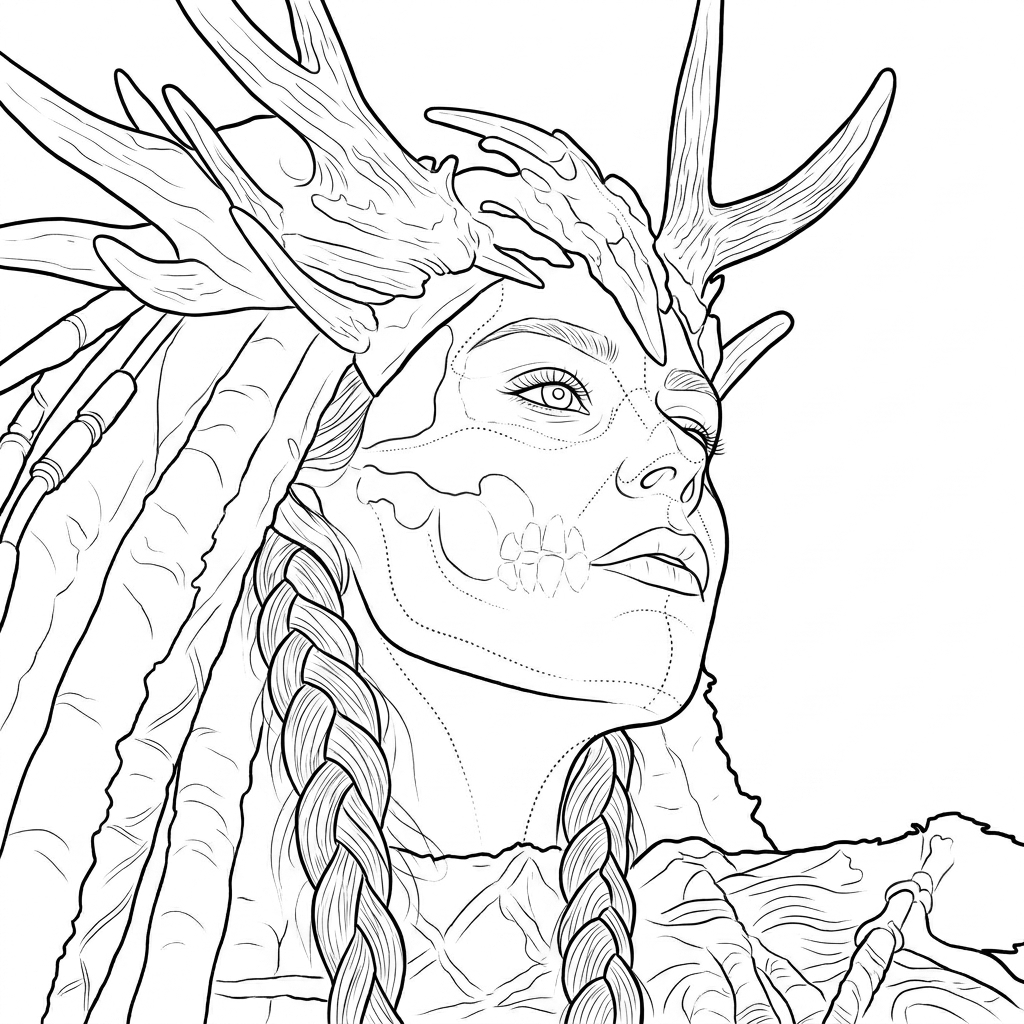
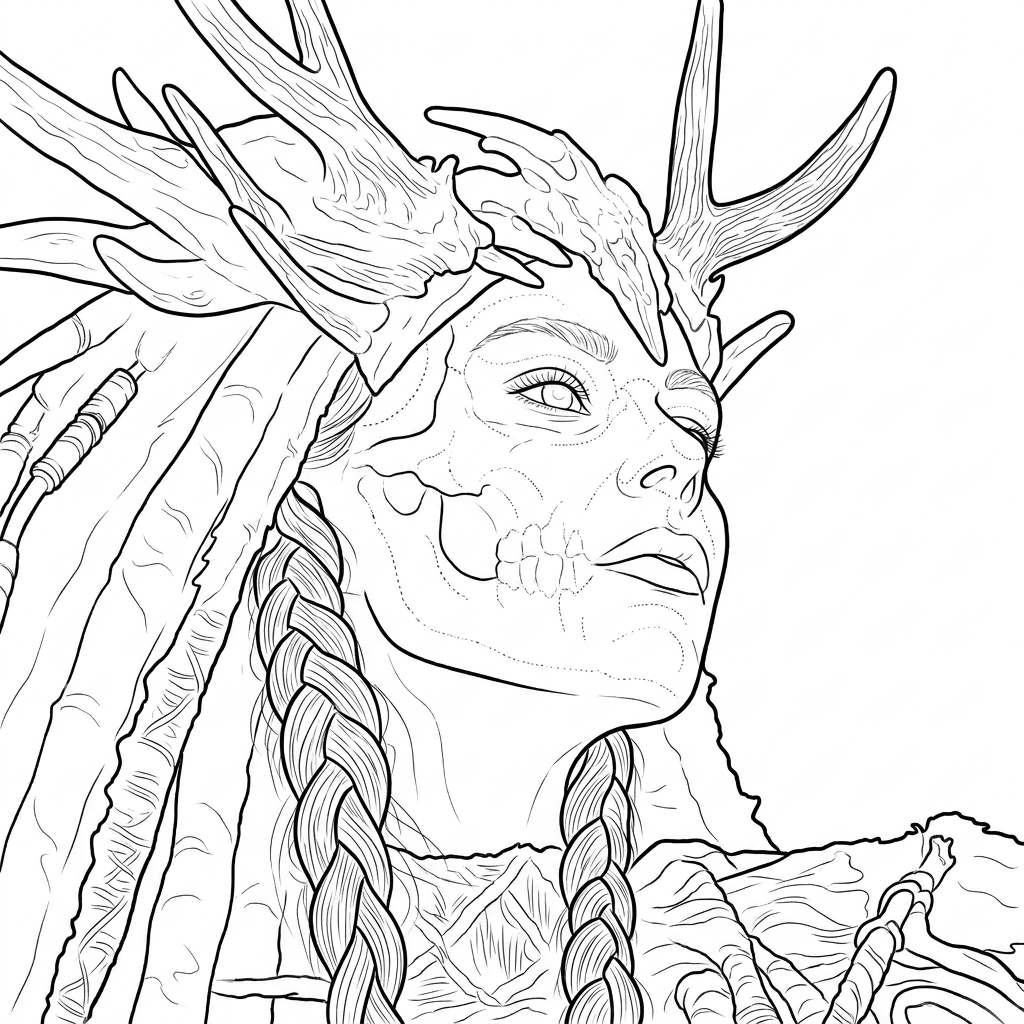
auto-commit for e772e1a7-dae2-4a45-a622-071a5446a2ec

diff --git a/backend/static/blueprint_heavy.html b/backend/static/blueprint_heavy.html
@@ -26,7 +26,7 @@ h2{color:#c9a227;font-size:18px;margin:18px 0 10px}
     <li><b>Consistency:</b> <code>temperature=0.0</code> is now the default. Same reference → consistent structure → predictable line placement.</li>
     <li><b>Post-processing:</b> Otsu thresholding removed. Grayscale line values preserved → anti-aliased edges, line-weight variation, and dotted-line integrity now match the raw AI output. Background still removed via alpha channel (transparent PNG).</li>
     <li><b>Refinement pass:</b> controlled clarity lift — subtle strand break-up (~10–15%), directional micro-lines + highlight-flow guides in hair, slightly clearer plane-change transitions on the face. No density increase, no fuzz. New marks REPLACE weak lines; they do not stack.</li>
-    <li><b>Depth refinement (targeted, ~10–15% lift in background/accessories ONLY):</b> improved layer separation in background hair/dreads/cloak/fur, subtle material indication on fabric, slightly more bone/crack/overlap detail on headdresses. Priority: <code>FOREGROUND &gt; FACE &gt; STRUCTURE &gt; BACKGROUND</code> — face untouched.</li>
+    <li><b>Depth refinement (universal, subject-agnostic):</b> ~10–15% lift in <b>secondary material zones</b> only — zones detected by these properties (not object names): layered structures behind the focal subject, repeating forms, directional-flow surfaces, or overlapping forms behind focal features. Face / focal area / primary contours / line hierarchy unchanged. Core rule: detail increases only as structural priority decreases.</li>
     <li><b>Detail priority:</b> STRUCTURE > FLOW > TEXTURE. Readability always wins.</li>
     <li><b>Removed entirely:</b> fill logic, shading generation, structure-altering "enhancement", random black region creation.</li>
   </ul>

diff --git a/backend/server.py b/backend/server.py
@@ -1947,41 +1947,45 @@ def build_blueprint_prompt(line_color: str, detail_level: str) -> str:
             "     on top. Net mark count stays within the same budget.\n"
             "   - If a region is already readable, add nothing.\n"
             "\n"
-            "DEPTH REFINEMENT (targeted — background & accessories only, ~10–15% lift "
-            "in those zones only, not global):\n"
+            "DEPTH REFINEMENT (targeted, universal — applies to any subject. "
+            "~10–15% lift in secondary-material zones only, not global):\n"
             "\n"
-            "Priority ordering — detail may only be added as priority decreases:\n"
-            "   FOREGROUND  >  FACE  >  STRUCTURE  >  BACKGROUND\n"
-            "The face is already correct. Do NOT add detail to the face. Do NOT add "
-            "detail to primary focal areas. Do NOT add density globally.\n"
+            "Core rule — detail may only increase as STRUCTURAL PRIORITY decreases:\n"
+            "   FOREGROUND / FOCAL  >  PRIMARY CONTOURS  >  SECONDARY MATERIAL ZONES\n"
+            "The foreground and focal area stay clean. Detail is added only in the "
+            "lower-priority zone, as a controlled lift.\n"
             "\n"
-            "A) Background structure (layered hair behind the subject, dreads behind "
-            "the head, cloak, fabric, fur, rope, netting):\n"
-            "   - Slightly improve strand separation so the back layers read as a "
-            "separate plane from the front layers (~10–15% lift in these zones only).\n"
-            "   - Add subtle material indication for cloak/fabric: woven direction, "
-            "fold lines, tension lines. These are directional structural marks, not "
-            "texture spray and not shading.\n"
-            "   - All added lines follow directional flow. Do NOT apply evenly across "
-            "every strand — only where the separation actually improves readability.\n"
-            "   - Do NOT add detail near the face or primary focal areas.\n"
+            "Secondary material zones (universal definition — no object assumptions):\n"
+            "A zone qualifies if it is ANY of the following:\n"
+            "   - a layered structure sitting BEHIND the primary focal element;\n"
+            "   - a repeating form (strand fields, weave, grain, bark, scale, etc.);\n"
+            "   - a surface material with directional flow;\n"
+            "   - overlapping forms that sit behind focal features.\n"
+            "Do not name what the zone is — detect it by these properties in the "
+            "reference and treat it accordingly.\n"
             "\n"
-            "B) Headdress / accessory micro-structure (crowns, antlers, bone, jewelry, "
-            "adornments):\n"
-            "   - Slightly increase fine detail in bone texture, small cracks, overlap "
-            "edges between elements, and the seams where two pieces meet.\n"
-            "   - Maintain silhouette clarity — primary contours still read as the "
-            "strongest line in the image. Do NOT stack lines so tightly that they "
-            "merge at print size.\n"
+            "Inside qualifying zones only:\n"
+            "   - Slightly increase line density (~10–15%).\n"
+            "   - Improve separation between layered elements so back layers read as "
+            "     a distinct plane from front layers.\n"
+            "   - Add directional flow lines where structure genuinely exists in the "
+            "     reference.\n"
             "\n"
-            "C) Hard constraints on this refinement:\n"
+            "Outside qualifying zones:\n"
+            "   - Focal area / face: unchanged.\n"
+            "   - Primary contours: unchanged.\n"
+            "   - Line-weight hierarchy: unchanged (added marks sit at Tertiary, or "
+            "     Dotted where appropriate — never at Primary or Secondary).\n"
+            "\n"
+            "Hard constraints on this refinement:\n"
             "   - No global detail increase.\n"
-            "   - No change to line-weight hierarchy. Primary stays primary; the added "
-            "background/accessory marks sit at Tertiary (or Dotted where appropriate).\n"
-            "   - No random texture, no fuzz, no noise. Every added mark describes "
-            "actual structure the reference shows.\n"
-            "   - Any added mark must improve SEPARATION between layers, not density "
-            "within a single layer."
+            "   - No uniform density across the image.\n"
+            "   - No random lines, no fuzz, no noise.\n"
+            "   - No object-specific assumptions — this refinement must behave the "
+            "     same way for any uploaded image.\n"
+            "   - Every added mark must improve layer SEPARATION, not density within "
+            "     a single layer, and must describe structure actually visible in "
+            "     the reference."
         ),
     }
     detail_text = detail_blocks.get(detail_level, detail_blocks["moderate"])
